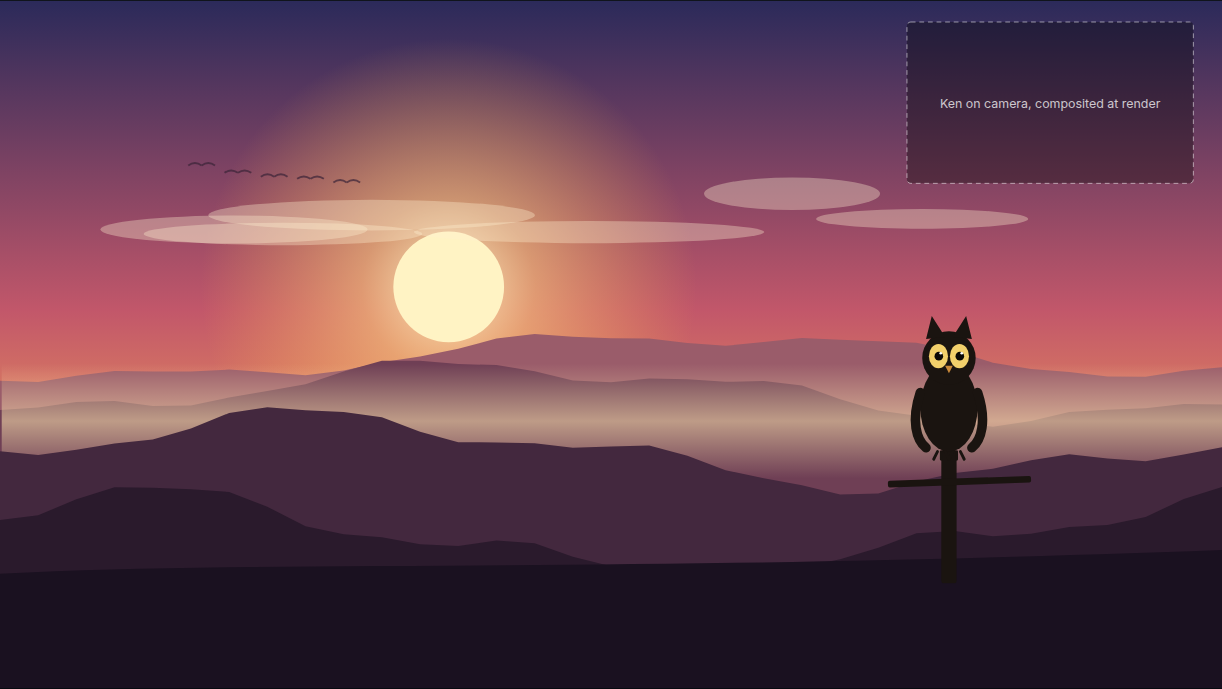
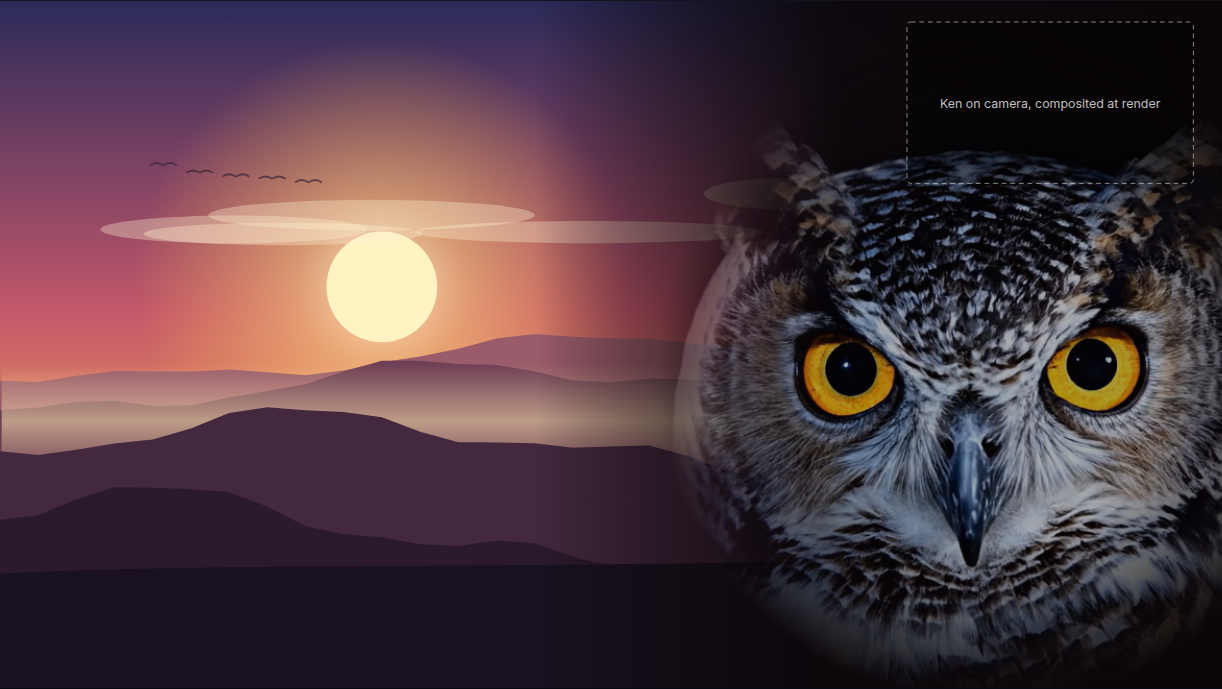
anim-stage: openers A and B around the Zero State owl portrait

diff --git a/courses/anim-stage/openers.html b/courses/anim-stage/openers.html
@@ -33,7 +33,7 @@
 <header>
   <div>
     <h1>Opener options · the first five seconds of every Owl Group Trading course</h1>
-    <p>What the Stanford videos do: one bright full-frame picture, the lesson title in a frosted box low in the frame, the presenter top-right, held for 7–12 seconds, then the black stage. These three are drawn in code (deterministic, so the kit renders them frame by frame); the owl is the brand archetype, never a stock image. Scrub or play; the title box and the tile are in every option.</p>
+    <p>What the Stanford videos do: one bright full-frame picture, the lesson title in a frosted box low in the frame, the presenter top-right, held for 7–12 seconds, then the black stage. These three are drawn in code (deterministic, so the kit renders them frame by frame); the owl in A and B is the Owl Group Trading owl, the Zero State picture; C keeps the drawn owl in flight. Scrub or play; the title box and the tile are in every option.</p>
   </div>
   <div class="ctl">
     <button id="play">Play</button>
@@ -46,18 +46,18 @@
   </div>
 </header>
 <main>
-  <section class="card"><div class="hd"><span class="tag">Option A</span><h2>First light</h2><p>Golden hour over rolling ridges, the sun just up, a long mist in the valley; the owl on a fence post at the right, watching. The light is the brand: patient, early, awake before the market.</p></div>
+  <section class="card"><div class="hd"><span class="tag">Option A</span><h2>First light</h2><p>Dawn on the left, the night still holding the right of the frame, and the owl in it: the Zero State portrait, lit on one cheek by the sun coming up. Patient, early, awake before the market.</p></div>
     <div class="wrap"><svg id="svgA" viewBox="0 0 1280 720"></svg></div>
-    <div class="note"><b>Moves:</b> the sun lifts, the mist drifts, the far ridges breathe, the owl blinks once; the title box fades in at 1.2 s, the wordmark at 2.0 s. Warm palette on the brand amber; the tile keeps its corner.</div></section>
-  <section class="card"><div class="hd"><span class="tag">Option B</span><h2>The watch</h2><p>Blue hour at the shore, a lighthouse sweeping, the owl on a bollard at the water's edge. Cooler and quieter; the beam says the same thing the Zero State says: nothing moves until it is seen.</p></div>
+    <div class="note"><b>Moves:</b> the sun lifts, the mist drifts, the far ridges breathe, the night thins off the owl over four seconds and the portrait pushes in slowly; the title box fades in at 1.2 s, the wordmark at 2.0 s. The tile sits over the owl's right ear, as the Stanford tile sits over their picture.</div></section>
+  <section class="card"><div class="hd"><span class="tag">Option B</span><h2>The watch</h2><p>Blue hour at the shore, a lighthouse sweeping, the owl portrait in the dark of the right half. Cooler and quieter; the beam says the same thing the Zero State says: nothing moves until it is seen.</p></div>
     <div class="wrap"><svg id="svgB" viewBox="0 0 1280 720"></svg></div>
-    <div class="note"><b>Moves:</b> the beam sweeps once every four seconds, the water shimmers, a few stars, the owl turns its head to the beam; title at 1.2 s. Works best for the system and risk courses.</div></section>
+    <div class="note"><b>Moves:</b> the beam sweeps between the sky and the owl and the face brightens as it passes, the water shimmers, the stars pulse, the portrait pushes in slowly; title at 1.2 s. Works best for the system and risk courses.</div></section>
   <section class="card"><div class="hd"><span class="tag">Option C</span><h2>Above the valley</h2><p>Full daylight: big cumulus, a green valley with a river, the owl gliding across the frame on open wings with its shadow on the land. The most Stanford-like in brightness; the most motion of the three.</p></div>
     <div class="wrap"><svg id="svgC" viewBox="0 0 1280 720"></svg></div>
     <div class="note"><b>Moves:</b> the owl crosses right to left over six seconds with a slow wingbeat, the clouds drift, the river glints; title at 1.2 s. Works for the open-and-intraday courses.</div></section>
 </main>
 <script>
-const BUILD = 'openers-3'; console.log('[openers] build', BUILD); window.__edgeBuild = BUILD;
+const BUILD = 'openers-5'; console.log('[openers] build', BUILD); window.__edgeBuild = BUILD;
 const clamp=(v,a,b)=>Math.max(a,Math.min(b,v)), lerp=(a,b,u)=>a+(b-a)*u, ease=u=>{u=clamp(u,0,1);return u<.5?2*u*u:1-Math.pow(-2*u+2,2)/2;};
 const op=(t,t0,d)=>clamp((t-t0)/(d||0.5),0,1), pr=(t,t0,d)=>ease((t-t0)/(d||0.6));
 function rng(seed){let s=seed*9301+49297;return()=>{s=(s*9301+49297)%233280;return s/233280;};}
@@ -97,50 +97,56 @@ function ridge(y, amp, seed, col, t, drift){   // a ridge line across the frame
   for(let x=0;x<=1280;x+=40){ const n=Math.sin(x/190+seed)*amp+Math.sin(x/61+seed*2)*amp*0.35+Math.sin(x/23)*amp*0.1; d+=` L${x} ${y+n+Math.sin(t*0.6+x/300)*(drift||0)}`; }
   return `<path d="${d} L1280 720 Z" fill="${col}"/>`;
 }
-// ---- Option A: first light
+// the Owl Group Trading owl (the Zero State picture, edge-ogt-engine/static/owl-logo-full.png, 642x642 on black)
+// drawn as a photo: a radial mask feathers the square, so the black edge of the picture dissolves into the dark part
+// of each frame; the only motion is a slow push-in (the hold).
+function owlPhoto(x,y,size,t,o){
+  const z=1+0.035*clamp(t/6,0,1), sz=size*z, dx=x-(sz-size)/2, dy=y-(sz-size)/2, id=o.id||'m';
+  return `<defs><radialGradient id="g${id}" cx=".5" cy=".5" r=".5"><stop offset="0" stop-color="#fff"/><stop offset=".5" stop-color="#fff"/><stop offset="1" stop-color="#000"/></radialGradient>
+    <mask id="mk${id}"><rect x="${dx}" y="${dy}" width="${sz}" height="${sz}" fill="url(#g${id})"/></mask></defs>
+    <image href="img/owl.png" x="${dx}" y="${dy}" width="${sz}" height="${sz}" mask="url(#mk${id})" opacity="${o.op==null?1:o.op}" preserveAspectRatio="xMidYMid slice"/>`;
+}
+// ---- Option A: first light — the dawn on the left, the owl watching from the dark on the right
 function drawA(t){
   const sun=lerp(300,262,pr(t,0,3.5));
   let s=`<defs><linearGradient id="skyA" x1="0" y1="0" x2="0" y2="1"><stop offset="0" stop-color="#2b2a5a"/><stop offset=".45" stop-color="#c2576a"/><stop offset=".75" stop-color="#f3a356"/><stop offset="1" stop-color="#ffe7a8"/></linearGradient>
     <radialGradient id="glowA" cx="0.5" cy="0.5" r="0.5"><stop offset="0" stop-color="#fff6d0" stop-opacity=".95"/><stop offset=".35" stop-color="#ffd27a" stop-opacity=".55"/><stop offset="1" stop-color="#ffb347" stop-opacity="0"/></radialGradient>
-    <linearGradient id="mistA" x1="0" y1="0" x2="0" y2="1"><stop offset="0" stop-color="#ffe7b0" stop-opacity="0"/><stop offset=".5" stop-color="#ffe7b0" stop-opacity=".55"/><stop offset="1" stop-color="#ffe7b0" stop-opacity="0"/></linearGradient></defs>`;
+    <linearGradient id="mistA" x1="0" y1="0" x2="0" y2="1"><stop offset="0" stop-color="#ffe7b0" stop-opacity="0"/><stop offset=".5" stop-color="#ffe7b0" stop-opacity=".55"/><stop offset="1" stop-color="#ffe7b0" stop-opacity="0"/></linearGradient>
+    <linearGradient id="duskA" x1="0" y1="0" x2="1" y2="0"><stop offset="0" stop-color="#0a0608" stop-opacity="0"/><stop offset=".45" stop-color="#0a0608" stop-opacity=".92"/><stop offset="1" stop-color="#0a0608"/></linearGradient></defs>`;
   s += `<rect width="1280" height="720" fill="url(#skyA)"/>`;
-  s += `<circle cx="470" cy="${sun}" r="260" fill="url(#glowA)"/><circle cx="470" cy="${sun}" r="58" fill="#fff3c4"/>`;
-  // thin clouds
+  s += `<circle cx="400" cy="${sun}" r="260" fill="url(#glowA)"/><circle cx="400" cy="${sun}" r="58" fill="#fff3c4"/>`;
   const r=rng(3); for(let i=0;i<6;i++){ const cx=(r()*1400-60+t*6*(i%2?1:0.6))%1400, cy=90+r()*160, w=180+r()*260; s += `<ellipse cx="${cx}" cy="${cy}" rx="${w/2}" ry="${8+r()*10}" fill="rgba(255,240,210,.35)"/>`; }
   s += ridge(372,22,1,'#9a5c6a',t,2); s += ridge(410,28,2,'#6f3f55',t,1.5);
   s += `<rect x="0" y="380" width="1280" height="120" fill="url(#mistA)" transform="translate(${Math.sin(t*0.5)*12} 0)"/>`;
   s += ridge(470,34,3,'#43283e',t,1); s += ridge(560,40,4,'#2a1a2c',t,0);
   s += `<path d="M0 720 L0 600 C300 585 600 600 1280 575 L1280 720 Z" fill="#1a1120"/>`;
-  // the fence and the owl
-  s += `<rect x="986" y="470" width="16" height="140" rx="3" fill="#1a1410"/><rect x="930" y="500" width="150" height="7" rx="2" fill="#1a1410" transform="rotate(-2 1005 503)"/>`;
-  const blink = (t>3.1&&t<3.3) ? Math.sin((t-3.1)/0.2*Math.PI) : 0;
-  s += owl(994,470,1.0,{blink, look:Math.sin(t*0.7)*0.6});
-  // birds far off
-  for(let i=0;i<5;i++){ const bx=200+i*38+t*14, by=170+Math.sin(t*2+i)*4+i*6; s += `<path d="M${bx-7} ${by} q7 -5 14 0 M${bx+7} ${by} q7 -5 14 0" stroke="#3a2438" stroke-width="2" fill="none" opacity=".7"/>`; }
+  for(let i=0;i<5;i++){ const bx=160+i*38+t*14, by=170+Math.sin(t*2+i)*4+i*6; s += `<path d="M${bx-7} ${by} q7 -5 14 0 M${bx+7} ${by} q7 -5 14 0" stroke="#3a2438" stroke-width="2" fill="none" opacity=".7"/>`; }
+  // the night still holds the right of the frame; the owl is in it, lit by the dawn on its left cheek
+  s += `<rect x="560" y="0" width="720" height="720" fill="url(#duskA)"/>`;
+  s += owlPhoto(690,40,700,t,{id:'A'});
+  s += `<rect x="560" y="0" width="720" height="720" fill="url(#duskA)" opacity="${0.35*(1-pr(t,0.5,4))}"/>`;
   return s + furniture(t,true);
 }
-// ---- Option B: the watch
+// ---- Option B: the watch — blue hour at the shore, the lighthouse beam finds the owl
 function drawB(t){
-  let s=`<defs><linearGradient id="skyB" x1="0" y1="0" x2="0" y2="1"><stop offset="0" stop-color="#050a1c"/><stop offset=".6" stop-color="#15305c"/><stop offset="1" stop-color="#3f6a8e"/></linearGradient>
-    <linearGradient id="seaB" x1="0" y1="0" x2="0" y2="1"><stop offset="0" stop-color="#1b3a5c"/><stop offset="1" stop-color="#0a1a2c"/></linearGradient></defs>`;
+  let s=`<defs><linearGradient id="skyB" x1="0" y1="0" x2="0" y2="1"><stop offset="0" stop-color="#03060f"/><stop offset=".55" stop-color="#0f2548"/><stop offset="1" stop-color="#2d5578"/></linearGradient>
+    <linearGradient id="seaB" x1="0" y1="0" x2="0" y2="1"><stop offset="0" stop-color="#1b3a5c"/><stop offset="1" stop-color="#0a1a2c"/></linearGradient>
+    <radialGradient id="nightB" cx=".5" cy=".5" r=".5"><stop offset="0" stop-color="#02040a"/><stop offset=".7" stop-color="#02040a" stop-opacity=".9"/><stop offset="1" stop-color="#02040a" stop-opacity="0"/></radialGradient></defs>`;
   s += `<rect width="1280" height="720" fill="url(#skyB)"/>`;
   const r=rng(11); for(let i=0;i<90;i++){ const x=r()*1280, y=r()*380, k=r(); s += `<circle cx="${x}" cy="${y}" r="${0.8+k*1.4}" fill="#fff" opacity="${0.35+0.6*Math.abs(Math.sin(t*1.5+i))}"/>`; }
-  s += `<circle cx="1060" cy="120" r="34" fill="#f3ead6" opacity=".9"/><circle cx="1048" cy="112" r="30" fill="#0b1a33"/>`;
+  s += `<circle cx="760" cy="110" r="30" fill="#f3ead6" opacity=".9"/><circle cx="749" cy="103" r="26" fill="#0b1a33"/>`;
   s += ridge(392,18,7,'#0d2238',t,0);
-  // the lighthouse on the left point, the beam sweeping
-  const ang = -90 + 70*Math.sin(t*0.8); const rad=ang*Math.PI/180;
-  s += `<polygon points="${210+Math.cos(rad-0.07)*1400},${270+Math.sin(rad-0.07)*1400} 210,270 ${210+Math.cos(rad+0.07)*1400},${270+Math.sin(rad+0.07)*1400}" fill="rgba(255,236,170,.22)"/>`;
+  const ang = -60 + 50*Math.sin(t*0.7); const rad=ang*Math.PI/180;       // sweeps between the sky and the owl
+  s += `<polygon points="${210+Math.cos(rad-0.07)*1500},${270+Math.sin(rad-0.07)*1500} 210,270 ${210+Math.cos(rad+0.07)*1500},${270+Math.sin(rad+0.07)*1500}" fill="rgba(255,236,170,.2)"/>`;
   s += `<path d="M0 720 L0 400 C80 395 160 390 260 392 L300 720 Z" fill="#091a2c"/>`;
   s += `<path d="M190 400 L186 300 L234 300 L230 400 Z" fill="#dfe6ee"/><rect x="182" y="286" width="56" height="16" fill="#1f2a36"/><rect x="190" y="256" width="40" height="30" fill="#ffe8a6" opacity="${0.8+0.2*Math.sin(t*6)}"/><path d="M186 256 L210 236 L234 256 Z" fill="#1f2a36"/>`;
   for(let i=0;i<3;i++) s += `<rect x="196" y="${320+i*26}" width="28" height="4" fill="#c0392b"/>`;
-  // the sea
   s += `<rect x="0" y="420" width="1280" height="300" fill="url(#seaB)"/>`;
   for(let i=0;i<40;i++){ const y=430+i*7+(i*i)%5, w=40+((i*37)%180), x=((i*131)+t*(20+i))%1400-60; s += `<rect x="${x}" y="${y}" width="${w}" height="1.5" fill="#cfe3ff" opacity="${0.08+0.1*Math.abs(Math.sin(t+i))}"/>`; }
-    // the quay and the bollard, the owl on it looking at the beam
-  s += `<path d="M700 600 L1280 580 L1280 720 L700 720 Z" fill="#0a1420"/><rect x="700" y="596" width="580" height="8" fill="#142434"/>`;
-  s += `<rect x="972" y="520" width="44" height="80" rx="8" fill="#1a1410"/><rect x="964" y="512" width="60" height="16" rx="6" fill="#1a1410"/>`;
-  const look = Math.cos(rad) * -1;
-  s += owl(994,514,1.0,{look, c:'#15110d'});
+  // the owl in the dark of the right half; the beam's nearness to it lights the face
+  const lit = clamp(1-Math.abs(ang+22)/30,0,1);
+  s += `<ellipse cx="1000" cy="380" rx="520" ry="440" fill="url(#nightB)"/>`;
+  s += owlPhoto(690,40,700,t,{id:'B',op:0.55+0.45*lit});
   return s + furniture(t,true);
 }
 // ---- Option C: above the valley

diff --git a/courses/anim-stage/index.html b/courses/anim-stage/index.html
@@ -67,14 +67,14 @@
   </div>
 
   <h3>Our opener options <span class="pill">drawn in code, deterministic, playable</span></h3>
-  <p>Our brand assets are thin line icons (the archetype and season sets in edge-growogtx); there is no raster hero, and no image generation is available on this box. So the three options below are drawn SVG scenes the kit can render frame by frame today. Each carries the three fixed parts: the frosted title box, the OWL GROUP TRADING wordmark, and the 300×169 tile top-right where Ken is composited at render. Scrub, play, and switch the title to see the box fit.</p>
+  <p>The owner's correction (2026-11-21, evening): the Zero State owl portrait (edge-ogt-engine/static/owl-logo-full.png, 642×642 on black) is the owl, not a cartoon. Options A and B now carry it as a photo inside a drawn landscape, masked so its black edge dissolves into the dark side of each frame, with a slow push-in as the only motion on it; C keeps the drawn owl in flight. All three are SVG scenes the kit can render frame by frame today. Each carries the three fixed parts: the frosted title box, the OWL GROUP TRADING wordmark, and the 300×169 tile top-right where Ken is composited at render. Scrub, play, and switch the title to see the box fit.</p>
   <iframe src="openers.html" style="height:1560px" title="Opener options" loading="lazy"></iframe>
   <div class="grid3">
-    <figure><img src="img/opener-A-3.png" alt="Option A frame" loading="lazy"><figcaption><b>A · First light.</b> Golden hour, the owl on a fence post. The warmest of the three and the closest to the amber of the course cards.</figcaption></figure>
-    <figure><img src="img/opener-B-3.png" alt="Option B frame" loading="lazy"><figcaption><b>B · The watch.</b> Blue hour, a lighthouse sweeping, the owl on a bollard turning to the beam. Quieter; fits the risk and system courses.</figcaption></figure>
+    <figure><img src="img/opener-A-3.png" alt="Option A frame" loading="lazy"><figcaption><b>A · First light.</b> Dawn on the left, the night still on the right, the owl portrait in it lit on one cheek. The warmest of the three.</figcaption></figure>
+    <figure><img src="img/opener-B-3.png" alt="Option B frame" loading="lazy"><figcaption><b>B · The watch.</b> Blue hour, a lighthouse sweeping, the owl portrait in the dark; the face brightens as the beam passes. Quieter; fits the risk and system courses.</figcaption></figure>
     <figure><img src="img/opener-C-3.png" alt="Option C frame" loading="lazy"><figcaption><b>C · Above the valley.</b> Full daylight, the owl gliding across the frame with its shadow on the land. The brightest and the most Stanford-like.</figcaption></figure>
   </div>
-  <div class="rule"><h4>The gap, flagged for growogtx</h4><p>The Stanford openers are painted illustrations with a recurring character. A drawn SVG owl holds the frame and the brand rule (no stock art, no generic icons), but a commissioned or generated owl character set (the same owl in six to eight landscapes, one per course family) would be the real equivalent. Until one exists, option A, B or C ships as the opener; the frame (title box, wordmark, tile) stays the same when the picture is replaced.</p></div>
+  <div class="rule"><h4>The gap, flagged for growogtx</h4><p>The Stanford openers are painted illustrations with a recurring character in a different scene each lesson. We have one owl picture: a head-on portrait on black. It carries A and B well because both keep the owl in the dark side of the frame; it cannot be perched, turned or flown. A set of the same owl photographed or generated in six to eight settings (one per course family) remains the brief for growogtx. Until then A or B ships as the opener; the frame (title box, wordmark, tile) stays the same when the picture changes.</p></div>
 </section>
 
 <section id="size">
@@ -137,6 +137,6 @@
 
 <p class="note" style="margin-top:50px">Sources read: the nineteen YouTube lectures the owner linked (Conditional probability through Beyond PAI), fetched at 720p on this box and read as frames; none of the frames here is redistributed beyond this internal page. Our frames: Disciplined Operator v2 s25, Ken Shorts s31. Files: <code>ogt-coursecraft/devtimeartifacts/stanford-style-study-2026-11-21/</code>.</p>
 </main>
-<script>const BUILD='stanford-study-1'; console.log('[stanford-study] build', BUILD); window.__edgeBuild = BUILD;</script>
+<script>const BUILD='stanford-study-2'; console.log('[stanford-study] build', BUILD); window.__edgeBuild = BUILD;</script>
 </body>
 </html>
